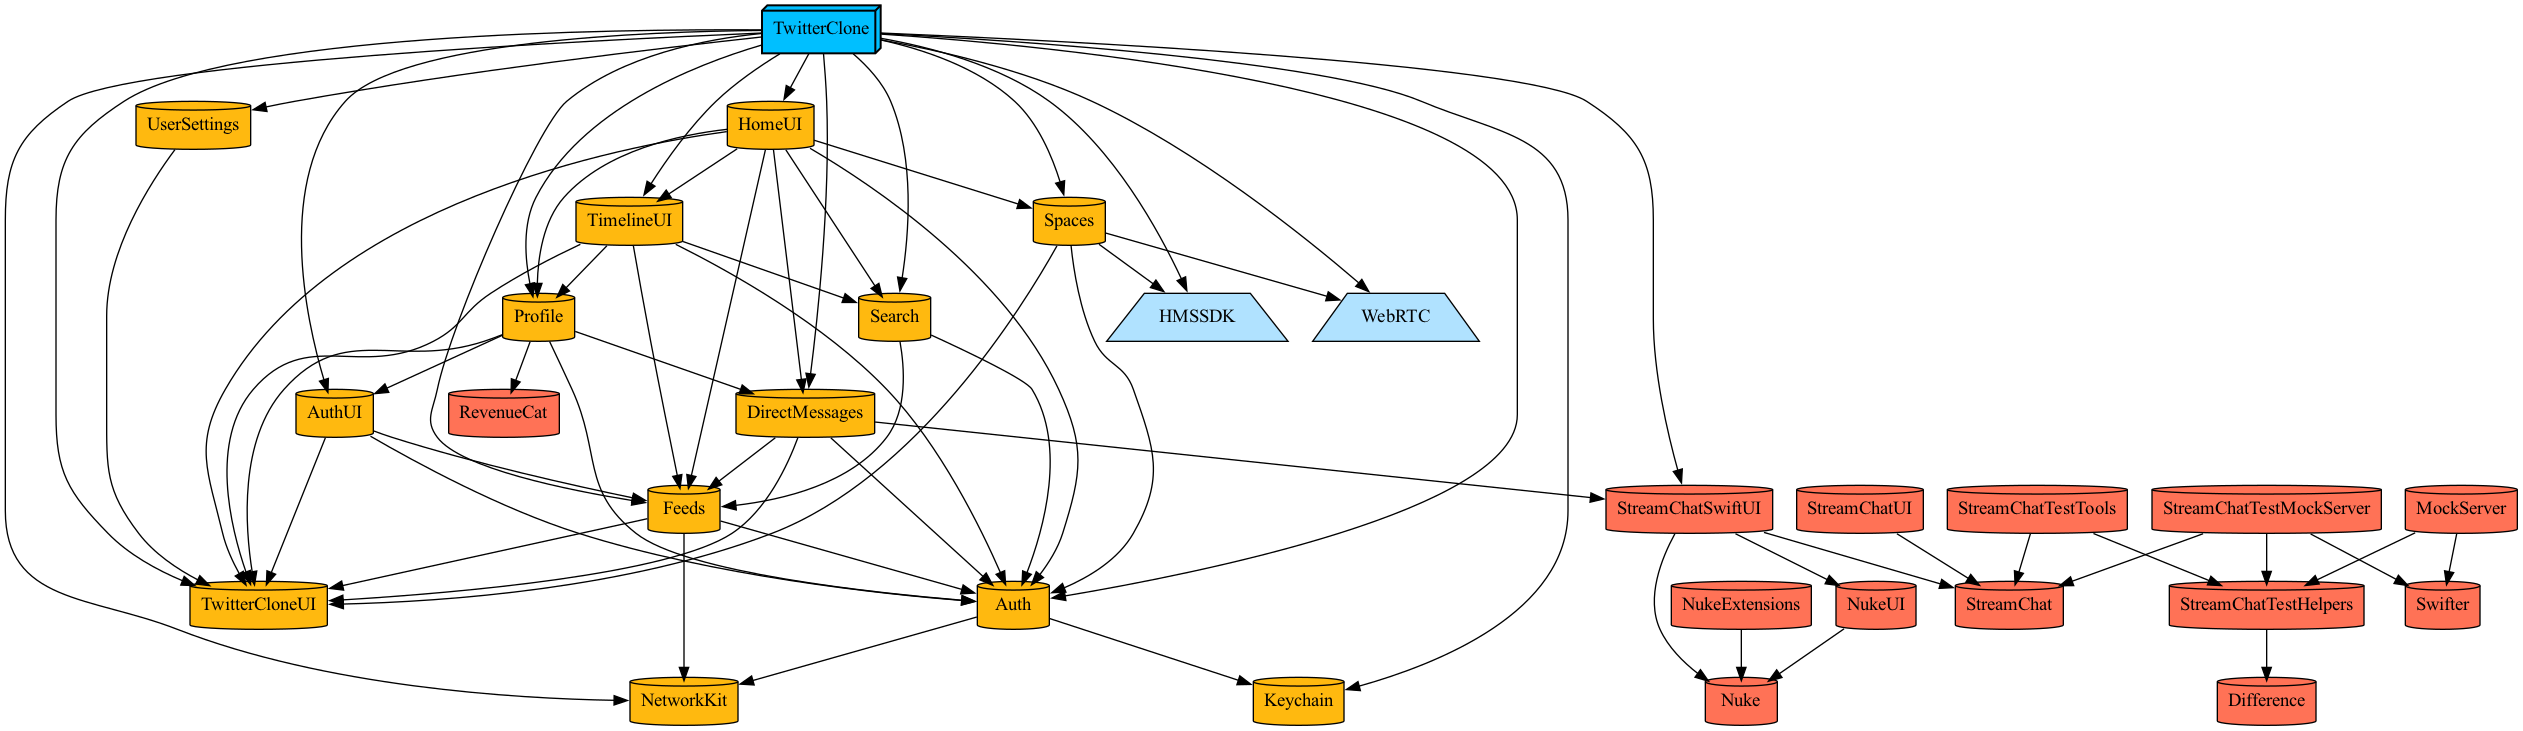
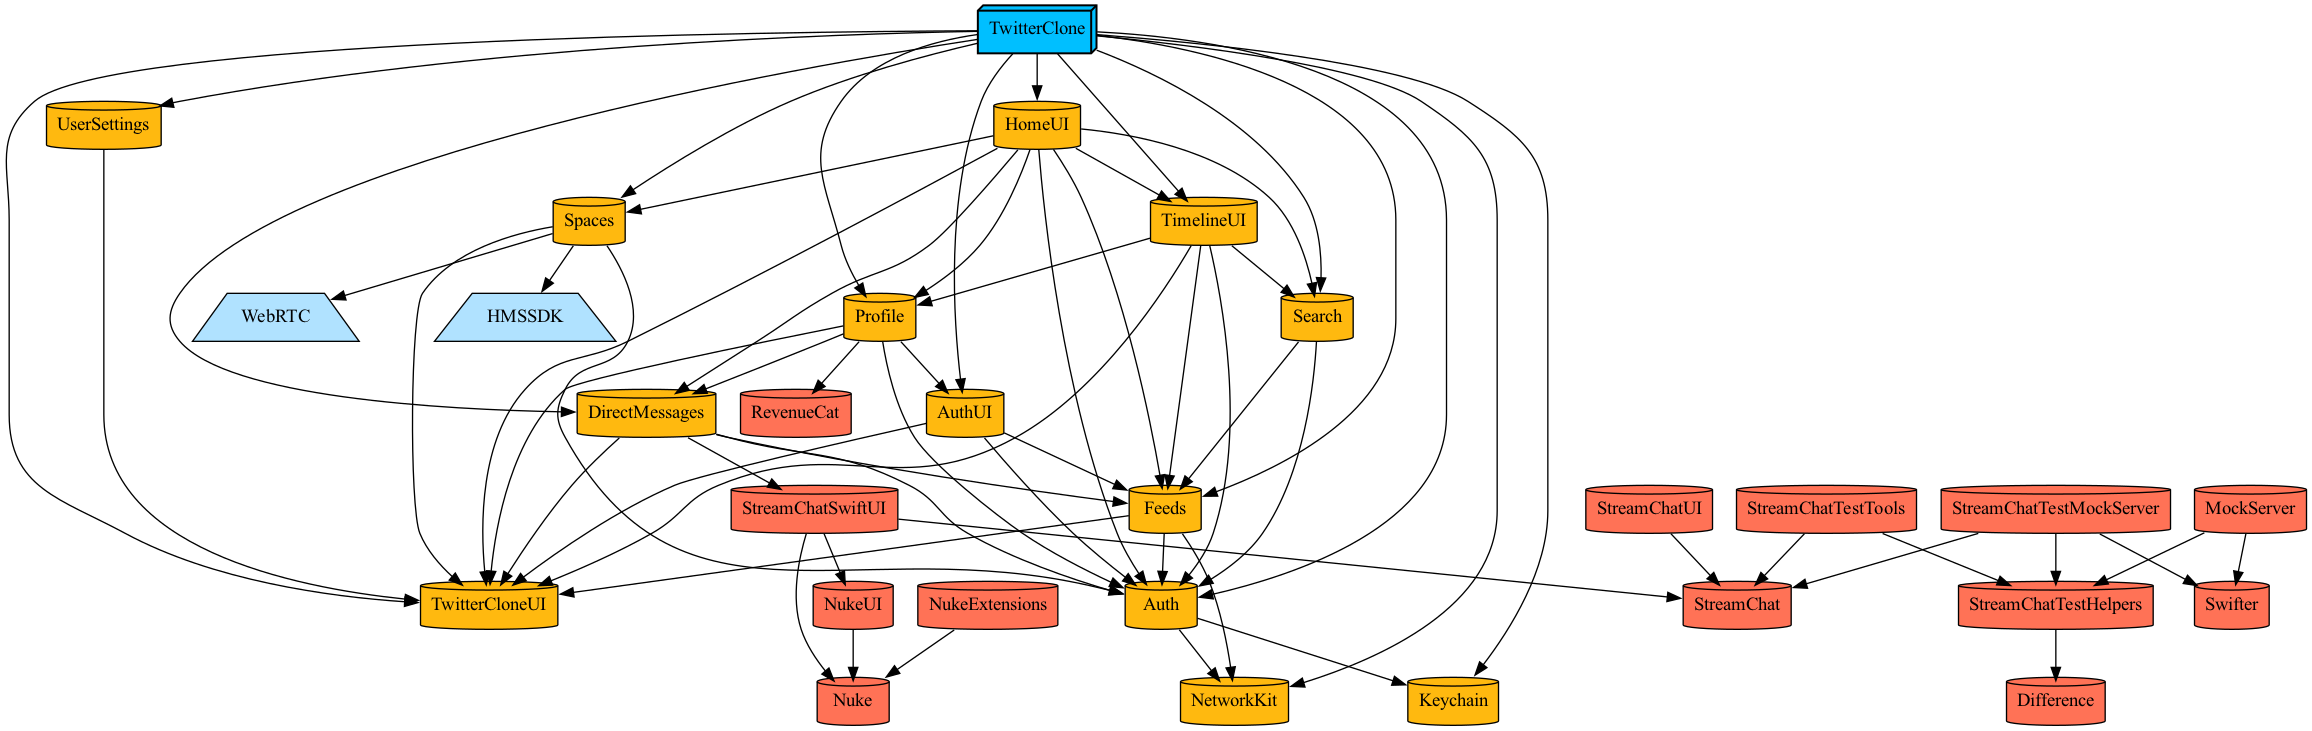
Remove some deps

diff --git a/TwitterClone/Project.swift b/TwitterClone/Project.swift
@@ -129,8 +129,8 @@ let project = Project.app(name: "TwitterClone",
                           platform: .iOS,
                           packages: [],
                           dependencies: [
-                            .external(name: "StreamChatSwiftUI"),
-                            .external(name: "HMSSDK")
+//                            .external(name: "StreamChatSwiftUI"),
+//                            .external(name: "HMSSDK")
                           ],
                           additionalTargets:
                             uiTarget +
